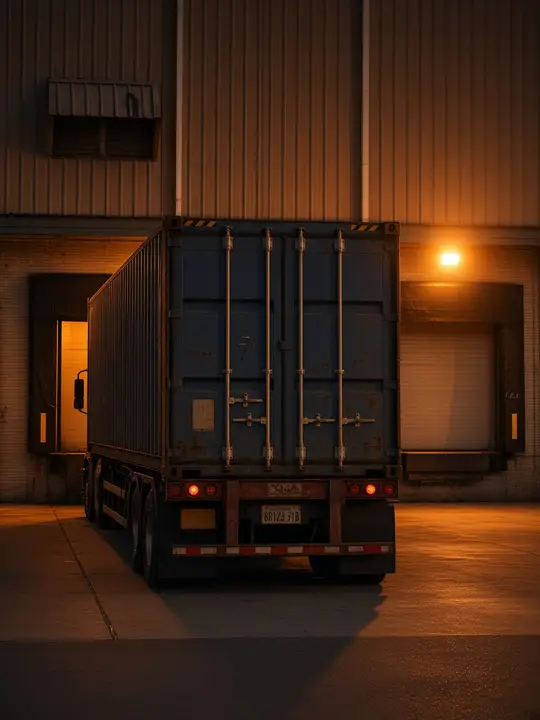
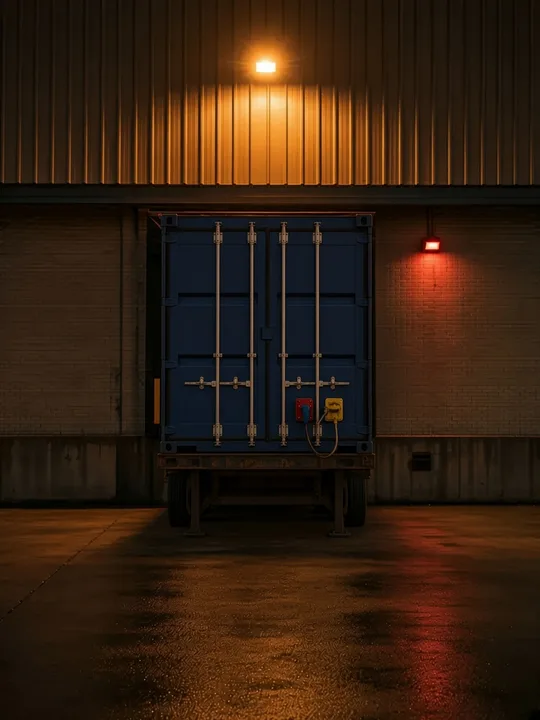
Blend container bays into dock wall; rename Continue Watching to In Route

diff --git a/index.html b/index.html
@@ -93,7 +93,7 @@ const FF='collection:feature_films AND ';
 const D=[["Live News","live"],["Music Videos","live"],["Drama",FF+'subject:"Drama"'],["Faith","live"],["Comedy",FF+'subject:"Comedy"'],["Noir & Mystery",FF+'(subject:"Film Noir" OR subject:"Mystery")'],["Outdoors & Motors","live"],["Westerns",FF+'subject:"Western"'],["Local & Government","live"],["Shopping","live"],["Horror & Sci-Fi",FF+'(subject:"Horror" OR subject:"Sci-Fi" OR subject:"Science Fiction")'],["Classic TV",'collection:classic_tv'],["End of row","end"]];
 let B=D[2][1],LI=0,ti=null;
 const IMG={walk:'img/walk.webp',live:'img/open.webp',tr:'img/trailer.webp',box:'img/container.webp',end:'img/end.webp'};
-D.splice(12,0,["Continue Watching","cw"],["My Loads","ml"]);
+D.splice(12,0,["In Route","cw"],["My Loads","ml"]);
 function bay(img,n,lbl,cap,click,id){return `<div class="bay"><div class="ph" id="${id||''}" style="background-image:url(${img})" onclick="${click}">${n?`<div class="num">${n}</div>`:''}${lbl?`<div class="plbl">${lbl}</div>`:''}<div class="fade"></div></div><div class="cap">${cap}</div></div>`}
 menu.innerHTML=bay(IMG.walk,'','DRIVER CHECK IN','Profiles',"openChk()")+D.map((d,i)=>{const n=i+1,k=d[1];
  if(k=='live')return bay('img/live'+(LI++%6)+'.webp',n,d[0].toUpperCase(),d[0]+' · <span style="color:#4ade80">● live</span>',`lv(${i})`);
@@ -113,7 +113,7 @@ function openChk(){hd.textContent='DRIVER CHECK IN';renderP();if(stack.at(-1)!='
 function selP(id){PR.cur=id;saveP();renderP();stack=['ext'];show('ext');hd.textContent='DRYVAN DRIVE-IN'}
 function addP(){const n=pn.value.trim()||('Driver '+(PR.list.length+1));const id='p'+Date.now();PR.list.push({id,name:n.slice(0,20),av:avSel});pn.value='';selP(id)}
 function renP(id){const p=PR.list.find(x=>x.id==id),n=prompt('New name for '+p.name,p.name);if(n&&n.trim()){p.name=n.trim().slice(0,20);saveP();renderP()}}
-function delP(id){const p=PR.list.find(x=>x.id==id);if(!confirm('Delete driver "'+p.name+'" and their Continue Watching and My Loads?'))return;
+function delP(id){const p=PR.list.find(x=>x.id==id);if(!confirm('Delete driver "'+p.name+'" and their In Route and My Loads?'))return;
  localStorage.removeItem('cw:'+id);localStorage.removeItem('ml:'+id);PR.list=PR.list.filter(x=>x.id!=id);
  if(!PR.list.length)PR.list.push({id:'p1',name:'Driver 1',av:0});if(!PR.list.some(x=>x.id==PR.cur))PR.cur=PR.list[0].id;saveP();renderP()}
 let first=!PR;if(first){PR={list:[{id:'p1',name:'Driver 1',av:0}],cur:'p1'};saveP()}
